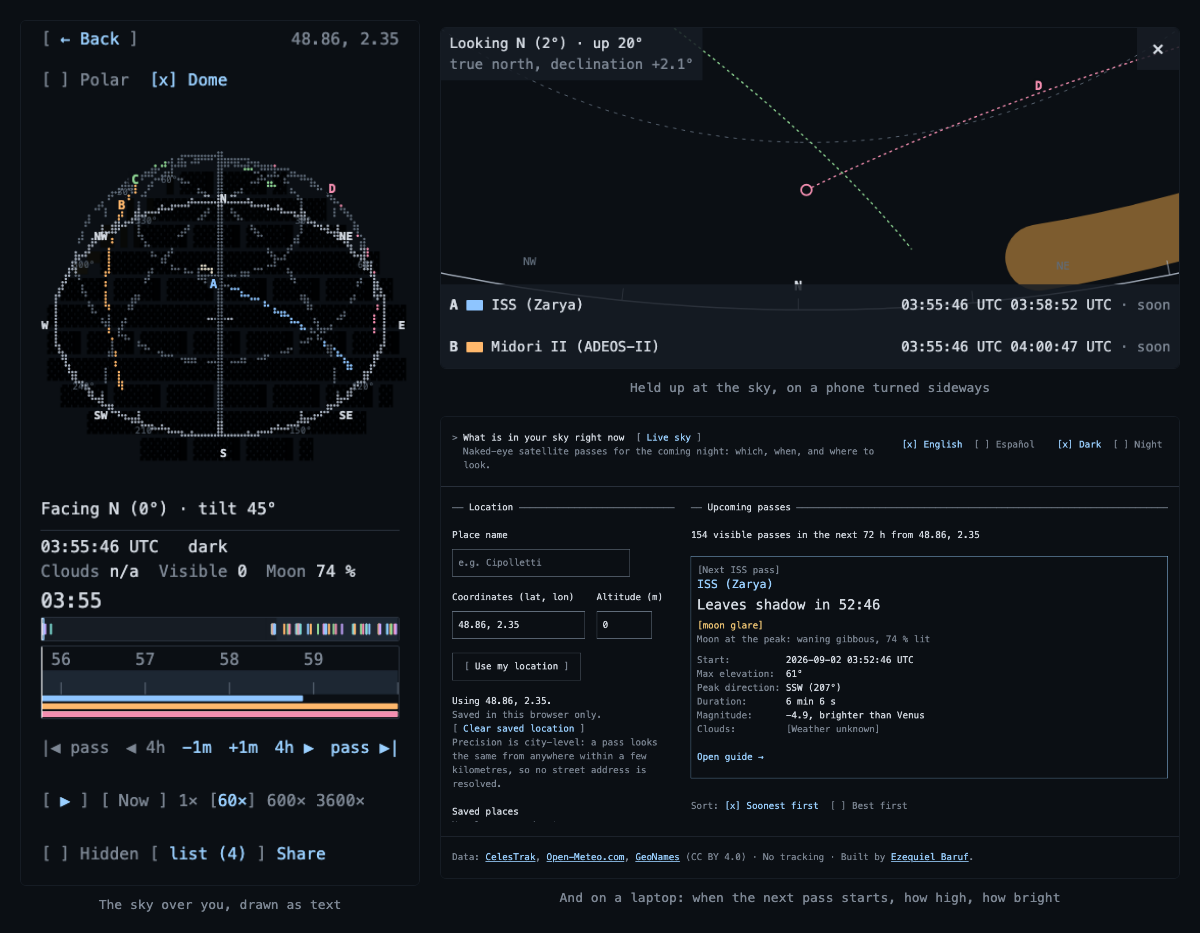
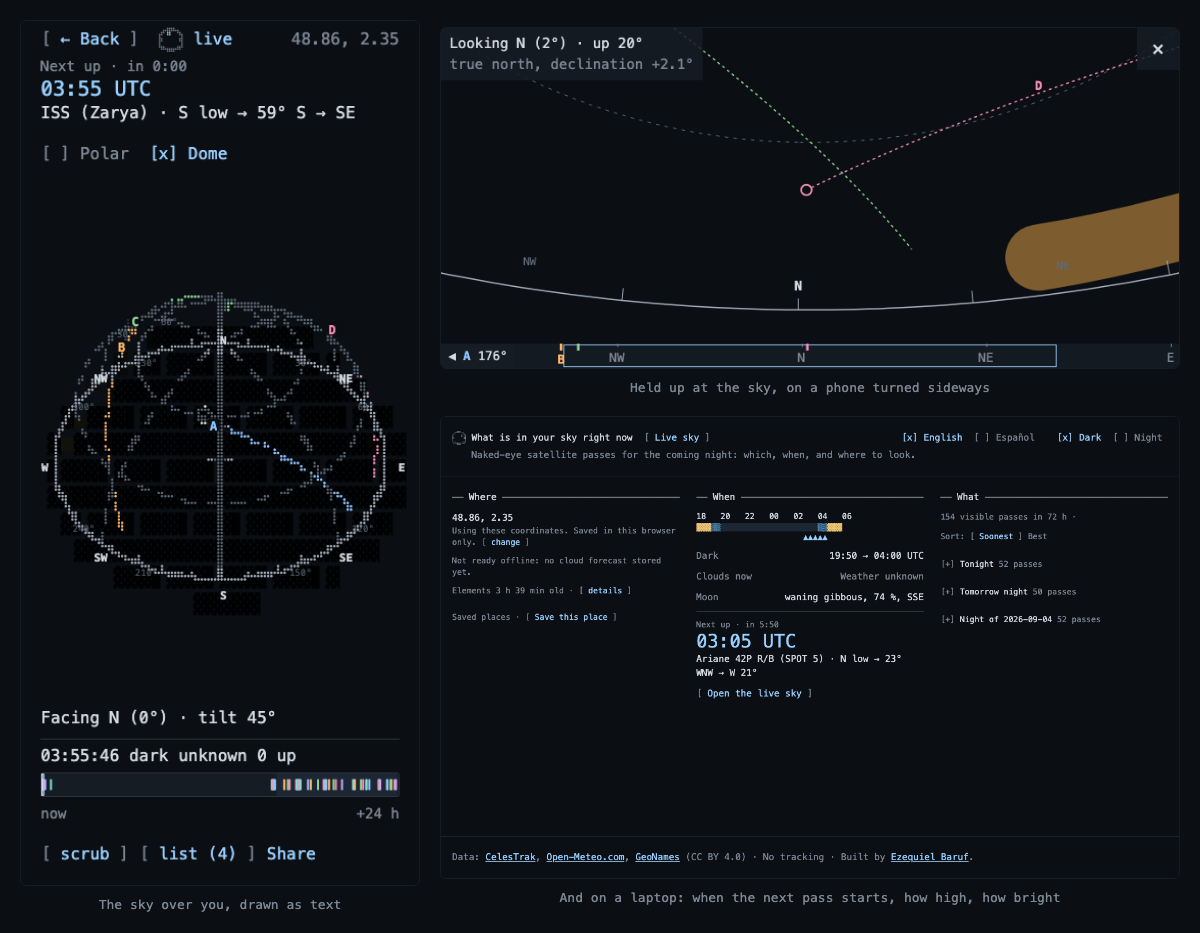
R80: the findings register closes the phase, and two rows open
F-67 and F-68 closed by #116 and #117; F-66 open with a second measurement -- three shots of polar at 390 off the 2.0.0 build are byte-identical, which is not a fix; F-62's 390 x 667 half open and re-measured at 329 px against the 374 floor. F-69 is main at 158.0 against its 155 budget with the mark's 5.2 KB measured by ablation; F-70 is a second nondeterministic capture, sky-screen-chip at 844, about fifty pixels inside a box of x 481-562, y 221-289. FR-SET-4's note: the docs/mockups settings board is marked superseded in the board and the README and is not re-drawn. The README hero follows the renamed live capture.

diff --git a/docs/mockups/compact-390.html b/docs/mockups/compact-390.html
@@ -266,6 +266,11 @@
   <b>Settings — <code>#settings</code>.</b> FR-COMP-2's order: language, theme,
   location, saved places, clear. Every change applies at once; there is no save
   action.
+  <br><br>
+  <b>Superseded by v2.0 (FR-SET-4).</b> The page is inverted — Location, Saved
+  places, This browser — and its reference is the design phase's artboard, not
+  this board, which is kept as what R52 was reviewed against and is not
+  re-drawn.
 </div>
 <div class="frame" id="settings">
   <div class="fold"></div>

diff --git a/scripts/readme-hero.ts b/scripts/readme-hero.ts
@@ -70,7 +70,10 @@ export interface Source {
  */
 export const SOURCES = [
   {
-    file: 'v1-live-390-dark-en.png',
+    // R80: the set's `live` screen is `live-watching` since v2.0 split the live page into
+    // its two states (FR-WATCH-9 f). Watching is the right half of that split for a first
+    // picture: it is the page as it opens, with no scrub block over the sky.
+    file: 'v1-live-watching-390-dark-en.png',
     caption: 'The sky over you, drawn as text',
     w: 390,
     h: 844,

diff --git a/SPEC.md b/SPEC.md
@@ -497,7 +497,7 @@ The R15 dome reads as a wire cage: rings, meridians and arc in one colour at nea
 
 ### 4.20 The v1 findings *(v1.1)*
 
-Every v1 task PR was merged with its review findings open (V1-11's gate merges on the owner's word, not on a clean review). They are listed here so the phase closes them, with the PR they came from and the lane that owns the code. The wording is the reviewer's, shortened. *(v1.1.1)* F-51..F-53 are the owner's findings on the wide live page after wave 4 (V11-14), measured on the fixtures at 1280 × 800, 1920 × 1080 and 2560 × 1440. *(v1.2)* F-54..F-56 are the owner's findings on the released v1.1 build (V12-3..V12-5); FR-FIX-1 governs them as it governs the rest, and the v1.2 tasks carry them. F-57 and F-58 are R56's review findings, merged open with #87 and written down here for a later phase as V12-6 asks; no v1.2 task carries them. *(v1.2.1)* F-59 is the owner's finding on the released v1.2 build (V12-7), and F-60 and F-61 are what reproducing it found (V12-9, V12-11); R61 carries all three. F-62 is R59's follow-up, merged open with #91 and written down here for a later phase as V12-6 asks; no v1.2 task carries it. *(v1.2 release)* F-54, F-55 and F-56 are closed by R57 (#89), R59 (#91) and R58 (#90) respectively; F-59, F-60 and F-61 are all three closed by R61 (#92); each closure is a change with a test that fails on the old code (FR-FIX-1), recorded in that PR. F-57, F-58 and F-62 stay open, as this section already says: no v1.2 task carries them. *(v1.3.1)* F-63 is the owner's finding on the R64 build, reproduced and measured before it was written down (V13-10); R66 carries it, and FR-FIX-1 governs it as it governs the rest. F-64 is what running the suite for R66 found — an `moon.spec.ts` failure that reproduces on `origin/main` — and no v1.3.1 task carries it. *(v1.4)* F-65 is the owner's finding on the 1.3.0 build, reproduced and measured before it was written down (V14-2); and F-57, F-58, F-62 and F-64 — the four rows no phase carried — are v1.4's, the owner's call when asked (V14-7). FR-FIX-1 governs all five. *(R67)* F-64 is closed: the catalogue and the fixture were already right — with `VITE_MOON_LORE=on` set, `moon.spec.ts` passed unchanged, including its "Taurus" assertion — the cause was the local `e2e` npm script building with the flag off while CI already built the e2e stage with it on (FR-FLAG-1/2), so only a bare `npm run e2e` (or a preview served from that build) ever showed the failure `origin/main` reproduces. Fixed by matching the `e2e` script's build to CI's, with `tests/build/flags.test.ts` holding the two sides together so the flag cannot fall off one of them again (#108). *(R68)* F-57 and F-58 are closed by R68 (#109), a change with a test that fails on the old code (FR-FIX-1): the window projects the horizon once per render where it draws it, and reads `lookDirection` once. *(R69)* F-65 is closed by R69 (#110): every rule of the landscape block names the compact mode, `tests/styles/liveShape.test.ts` fails on the old sheet and `tests/e2e/shapes.spec.ts` walks the FR-SHP-4 matrix. *(R71)* F-62 is closed at 390 × 844 by R71 (#112) — 375 px of box against the floor of 374, measured with the list closed by `live-compact.spec.ts`, which fails on the old layout — and its last sentence is open at 390 × 667, where 198 px is 176 under the floor and no furniture is left to cut. *(v1.4 release, R72)* The phase's five rows and where they stand: F-64 closed by R67 (#108), F-57 and F-58 by R68 (#109), F-65 by R69 (#110), F-62 closed at 390 × 844 by R71 (#112). None of the five is closed silently, and the one thing left open is not a defect to fix but a requirement to restate: FR-LEG-8's "MUST hold at 390 × 667" against FR-COMP-5's own escape, which is the owner's sentence and is on the release checklist (`docs/RELEASE.md` §11.3) rather than assigned to a task. F-66 is what the release re-shoot of the capture set found; no v1.4 task carries it.
+Every v1 task PR was merged with its review findings open (V1-11's gate merges on the owner's word, not on a clean review). They are listed here so the phase closes them, with the PR they came from and the lane that owns the code. The wording is the reviewer's, shortened. *(v1.1.1)* F-51..F-53 are the owner's findings on the wide live page after wave 4 (V11-14), measured on the fixtures at 1280 × 800, 1920 × 1080 and 2560 × 1440. *(v1.2)* F-54..F-56 are the owner's findings on the released v1.1 build (V12-3..V12-5); FR-FIX-1 governs them as it governs the rest, and the v1.2 tasks carry them. F-57 and F-58 are R56's review findings, merged open with #87 and written down here for a later phase as V12-6 asks; no v1.2 task carries them. *(v1.2.1)* F-59 is the owner's finding on the released v1.2 build (V12-7), and F-60 and F-61 are what reproducing it found (V12-9, V12-11); R61 carries all three. F-62 is R59's follow-up, merged open with #91 and written down here for a later phase as V12-6 asks; no v1.2 task carries it. *(v1.2 release)* F-54, F-55 and F-56 are closed by R57 (#89), R59 (#91) and R58 (#90) respectively; F-59, F-60 and F-61 are all three closed by R61 (#92); each closure is a change with a test that fails on the old code (FR-FIX-1), recorded in that PR. F-57, F-58 and F-62 stay open, as this section already says: no v1.2 task carries them. *(v1.3.1)* F-63 is the owner's finding on the R64 build, reproduced and measured before it was written down (V13-10); R66 carries it, and FR-FIX-1 governs it as it governs the rest. F-64 is what running the suite for R66 found — an `moon.spec.ts` failure that reproduces on `origin/main` — and no v1.3.1 task carries it. *(v1.4)* F-65 is the owner's finding on the 1.3.0 build, reproduced and measured before it was written down (V14-2); and F-57, F-58, F-62 and F-64 — the four rows no phase carried — are v1.4's, the owner's call when asked (V14-7). FR-FIX-1 governs all five. *(R67)* F-64 is closed: the catalogue and the fixture were already right — with `VITE_MOON_LORE=on` set, `moon.spec.ts` passed unchanged, including its "Taurus" assertion — the cause was the local `e2e` npm script building with the flag off while CI already built the e2e stage with it on (FR-FLAG-1/2), so only a bare `npm run e2e` (or a preview served from that build) ever showed the failure `origin/main` reproduces. Fixed by matching the `e2e` script's build to CI's, with `tests/build/flags.test.ts` holding the two sides together so the flag cannot fall off one of them again (#108). *(R68)* F-57 and F-58 are closed by R68 (#109), a change with a test that fails on the old code (FR-FIX-1): the window projects the horizon once per render where it draws it, and reads `lookDirection` once. *(R69)* F-65 is closed by R69 (#110): every rule of the landscape block names the compact mode, `tests/styles/liveShape.test.ts` fails on the old sheet and `tests/e2e/shapes.spec.ts` walks the FR-SHP-4 matrix. *(R71)* F-62 is closed at 390 × 844 by R71 (#112) — 375 px of box against the floor of 374, measured with the list closed by `live-compact.spec.ts`, which fails on the old layout — and its last sentence is open at 390 × 667, where 198 px is 176 under the floor and no furniture is left to cut. *(v1.4 release, R72)* The phase's five rows and where they stand: F-64 closed by R67 (#108), F-57 and F-58 by R68 (#109), F-65 by R69 (#110), F-62 closed at 390 × 844 by R71 (#112). None of the five is closed silently, and the one thing left open is not a defect to fix but a requirement to restate: FR-LEG-8's "MUST hold at 390 × 667" against FR-COMP-5's own escape, which is the owner's sentence and is on the release checklist (`docs/RELEASE.md` §11.3) rather than assigned to a task. F-66 is what the release re-shoot of the capture set found; no v1.4 task carries it. *(v2.0)* F-67 and F-68 are what the phase's own CI found before and during its first task — a wall-clock test and then four files of them — and each was closed by the PR that reproduced it, #116 and #117. No other v2.0 task carries a row: the six areas are new sections, not fixes. *(v2.0 release, R80)* Where every row this phase carried stands, none of them closed silently. **F-67** closed by #116 and **F-68** by #117, each a test pinned to the fixture's instant. **F-66 stays open and did not reproduce**: the 2.0.0 re-shoot shot `polar at 390 px` three times off the one build and all four variants came out byte-identical, where the 1.4.0 build alternated in the `night`/`es` one — the row keeps its v1.4 measurement and gains this one, because a flake that three runs did not show is not a flake that is fixed, and the cause is `chart`-lane code no v2.0 task touched. **F-62's open half** — the compact box at 390 × 667 — is not closed either, and it moved: R71 measured 198 px against FR-COMP-5's floor of 374, and R77's watching state (FR-WATCH-4 renders no stripe, no step row and no playback row at all) measures 329, so the gap is 45 px rather than 176. Still the owner's sentence rather than a task's, now on `docs/RELEASE.md` §12. Two rows are added by this task and belong to a later phase: **F-69**, the main chunk over its budget with the mark in it, and **F-70**, a second capture of the set that does not answer twice the same way.
 
 - **FR-FIX-1** Each finding below MUST be closed by a change with a test that fails on the old code, or recorded as *already fixed on main* with the commit that fixed it, or moved to Phase 3 by an explicit Decision Log row. A findings task per lane (V11-11) carries them; a finding whose code a v1.1 feature task rewrites MAY be closed by that task instead, named in its acceptance.
 - **FR-FIX-2** Findings that are e2e or CI defects (F-33, F-34, F-36, F-37, F-38) are closed in the first wave together with §4.21, before any feature task runs.
@@ -569,9 +569,11 @@ Every v1 task PR was merged with its review findings open (V1-11's gate merges o
 | F-64 | R66 | ui | `moon.spec.ts`'s Now-panel test fails on `origin/main` as well as on this branch: the "Moon tonight" region does not contain the lore line it asserts. Found while running the suite for R66, reproduced on a worktree of `origin/main` at dd126f2, and not caused by anything in v1.3.1 — the lore line is chosen from the Moon's constellation, so a date-dependent fixture is the first place to look. No v1.3.1 task carries it. |
 | F-63 | owner, R64 phone run | live | On a landscape phone the live drawing lies over the status strip and the stripe beside it. The compact box is full-bleed by negative side margins of one page padding each (R45, D-187), which assumes the pane it is in is the page's whole width; in the landscape-phone layout (D-173) the dome pane is only the left 2fr column, so the box comes out a whole page padding wider than its pane on each side. Measured on the R64 build at 844 × 390: the dome pane runs x 19 → 340 and the side column starts at 344, while `chart-box` runs 0 → 359 — 19 px off the left edge of the page and 15 px into the strip. The same at 740 × 360 (pane to 298, side from 302, box to 318) and at 932 × 430 (375, 379, 394). Since R45; never seen because the landscape layout's own tests measure the panes, which do not overlap, and not the drawing inside them. |
 | F-65 | owner, 1.3.0 build (Chrome device mode, responsive frame) | live | On a wide viewport shorter than 500 px the live page takes the landscape phone's grid **tracks** and keeps the desktop's grid **areas**, so the whole page is drawn inside the left `2fr` column and the drawing collapses. `Live.module.css`'s `(orientation: landscape) and (max-height: 500px)` block sets `grid-template-columns: minmax(0, 2fr) minmax(0, 3fr)` with no mode selector, while `.page[data-compact='false'][data-columns='one']` sets the areas one-column and wins on specificity; the block's own comment states the assumption that fails — "the landscape phone (D-173) is compact and keeps its own two columns". Reproduced and measured on the 1.3.0 build before it was written down (V14-2). At 1200 × 450: the page is 1200 × 450 and every row of it 456 px wide at x 19; `live-top-row`, a one-line row, is 144 px tall; `chart-box` is 243 × **0**; `document.documentElement.scrollHeight` is 624 against an inner height of 450, so the page scrolls, against FR-LIVE-1; and the facing readout is set one character per line. The same at 1400 × 480 (`chart-box` 279 × 0, `scrollHeight` 576). Correct at 1200 × 700 (the desktop layout) and at 900 × 450 (a real compact landscape). Since R34 (PLAN D-173), and invisible to the suite because every test of the landscape layout runs at a compact width, where the rule is right. *Closed by R69 (#110; D-379):* every rule in the landscape block is `.page[data-compact='true']`'s, `tests/styles/liveShape.test.ts` fails on the old sheet, and `tests/e2e/shapes.spec.ts` walks FR-SHP-4. Measured on the branch at 1200 × 450: the page's rows are 1161 px wide, `chart-box` 262 × 219 with the rows folded (FR-SHP-3: the actions on the strip's line, every control's row one text row), the drawing 92 % of the box across, `scrollHeight` 450 against 450. FR-SHP-3's "486 × 405" at that size is not reachable with the time row and the stripe under the box — 450 less the padding, the top row and the frame's row leaves 405 for the box *and* the stripe together — and is a figure for the owner to restate. |
-| F-66 | R72, the v1.4 release re-shoot | chart | One capture of the set is not deterministic: `v1-polar-390-night-es.png` comes out in either of two states, 142 pixels apart, inside the polar drawing (bounding box x 137–318, y 269–385 of 390 × 844). Measured on the 1.4.0 build by shooting `polar at 390 px` three times off one build and hashing the four files: the other three variants of that screen are byte-identical across all three runs, and the `dark`/`es` one alternates. So it is not the seeded instant F-48 fixed — that would move every variant — but something inside the drawing that only the Spanish dark picture is on the edge of, and 142 px is a glyph or two. What it costs is small and real: a release re-shoot of an unchanged screen shows one file changed, so the reviewer of the set has to tell that apart from a screen that moved, which is the whole point of the set being re-shot off one build (D-179). No v1.4 task carries it; a `chart`-lane finding for a later phase, like F-57 and F-62 before it. |
+| F-66 | R72, the v1.4 release re-shoot | chart | One capture of the set is not deterministic: `v1-polar-390-night-es.png` comes out in either of two states, 142 pixels apart, inside the polar drawing (bounding box x 137–318, y 269–385 of 390 × 844). Measured on the 1.4.0 build by shooting `polar at 390 px` three times off one build and hashing the four files: the other three variants of that screen are byte-identical across all three runs, and the `dark`/`es` one alternates. So it is not the seeded instant F-48 fixed — that would move every variant — but something inside the drawing that only the Spanish dark picture is on the edge of, and 142 px is a glyph or two. What it costs is small and real: a release re-shoot of an unchanged screen shows one file changed, so the reviewer of the set has to tell that apart from a screen that moved, which is the whole point of the set being re-shot off one build (D-179). No v1.4 task carries it; a `chart`-lane finding for a later phase, like F-57 and F-62 before it. *(R80, the v2.0 re-shoot)* **It did not reproduce, and it is not closed.** The same measurement on the 2.0.0 build — `polar at 390 px` shot three times off the one build, the four files hashed after each run — comes out byte-identical in all four variants, the `dark`/`es` one included. All four `v1-polar-390-*.png` files do differ from the committed 1.4.1 ones, but so does every other screen with a header on it: v2.0 put the mark there (FR-MARK-4). So the row stays open with both measurements beside it. Three runs that agree are not a fix, nobody changed the code they would have to have changed, and F-70 is the same shape of defect turning up one screen over. |
 | F-67 | v2.0 breakdown, CI on PR #116 | ui | `PassList.test.tsx`'s "names the nights from the reader's own clock" reads the wall clock and is red for a whole calendar day at a time, on any branch: `nightLabel` has three branches (tonight, tomorrow night, the date) and the assertion had two, so on the day before the golden window's date — when the first night is "tomorrow" — it expects `Night of 2026-09-11` and the component correctly says `Tomorrow night`. Reproduced at 00:06 UTC on a branch with no `src/` change; the same test passed at 23:30 UTC. The component is right and the test was wrong. Closed by PR #116: the test pins `Date.now()` to the fixture's instant and asserts the three labels as literals (§9.3's determinism rule, applied to a test that had escaped it). |
 | F-68 | R74 revisit, CI on PR #117 (2026-09-14) | ui | The hero card's choice reads the wall clock — `PassList.tsx` hands `nextFeaturedPass` a ticking `Date.now()`, not the store's `nowMs` — and the golden passes are dated, so from the calendar day their window ended every assertion on `iss-hero` went red on any branch: three tests in `App.test.tsx`, `App.wide.test.tsx` and `App.settings.test.tsx` that render the frame with the golden pass, and the two in `PassList.test.tsx` that promote it. Reproduced on untouched `main` the same day. The component is right and the tests were F-67's mistake again, one file over. Closed by PR #117: the four files pin `Date.now()` at the fixture's instant (§9.3's determinism rule), as F-67 did. Whether the hero should read the store's clock instead is open: the card counts down in real time by design. |
+| F-69 | R80, the v2.0 release measurement | ui | The main chunk is over its budget on the shipping build: 158.0 KB gzipped against the 155 KB `scripts/bundle-budget.ts` enforces (PLAN §11), so every build of `main` from here prints a `::warning::`. The mark's share is measured and not estimated, which is what FR-MARK-6 asks the release task for: the same tree built with `Mark.tsx` stubbed to an empty box — importing neither `rasters.json` nor `useBead` nor `denseFrame` — measures 152.8 KB, so the component, the six body rasters and the 60 sparse bead frames per tier are **5.2 KB gzipped, 18.0 KB raw**. Without the mark the chunk is inside 155 with 2.2 KB to spare; with it, 3.0 KB over. It is not the whole cause: `main` grew 17.9 KB over the 1.4.0 build (140.1 → 158.0) and the mark is 5.2 of it, the rest being board 1B's home screen, the inverted settings page and the phase's copy in both catalogs, whose source alone grew 8.0 KB gzipped over the same span. PLAN §11's v2.0 paragraph decides what a release task may do about it — "a mark that does not fit inside main's 155 KB is a finding for the owner, not a budget raised by the task that spent it" — so the budget is unchanged and this row is the measurement. The choices are the owner's and each is a Decision Log row: raise main's enforced budget towards the 170 KB ceiling §11 already reserves, split something out of the shell behind a `React.lazy` (the settings page is the obvious candidate — one route, reached by a link), or shrink the mark (five tiers instead of six, or fewer than 60 bead frames). |
+| F-70 | R80, the v2.0 release re-shoot | window | A second capture of the set is not deterministic, and it is not the one F-66 is about. `v1-sky-screen-chip-844-*.png` comes out in either of two states in two of its four variants: shot three times off the 2.0.0 build, `dark`/`en` and `night`/`es` are byte-identical across all three runs while `dark`/`es` and `night`/`en` alternate. The difference is small and inside the drawing, not in the chip or the gutter: 47 differing pixels in `night`/`en` and 52 in `dark`/`es`, both inside a box of x 481–562, y 221–289 of 844 × 390 — a glyph or two, the same shape of defect F-66 records in the polar chart. Not the azimuth sweep the capture's route does to find an empty field: a different facing would redraw the whole picture, not fifty pixels of it. It costs what F-66 costs (D-421): a release re-shoot of an unchanged screen shows a file changed, and the reviewer of the set has to tell that apart from a screen that moved. No v2.0 task carries it; `window`-lane code this task may not touch, so it goes in the register with its measurement and the committed file is the one the single run of record produced. |
 The NaN facing loop from R34 (#57) was fixed on main before the merge and is not listed.
 
 ### 4.21 CI time *(v1.1)*

diff --git a/docs/mockups/README.md b/docs/mockups/README.md
@@ -102,6 +102,17 @@ language, theme, location (the inputs, the device-location button and the
 precision note), saved places, and clear. No save action: every change applies
 at once, as it does today.
 
+> *(v2.0, FR-SET-4; R80)* **This board is superseded and is not re-drawn.**
+> v2.0 inverts the page — Location first, then Saved places, then This browser,
+> which is where language, theme, the install offer and the clear action went —
+> and its reference is the design phase's artboard, with FR-SET-1..4 carrying
+> the artboard's numbers into the text. The board and its two PNGs stay because
+> they are what R52 was reviewed against, the way every other superseded
+> capture in this repository stays; `v1-settings-390-*.png` in
+> `docs/screenshots/` is the picture of the page the app has. The home and the
+> pass-detail boards above are unaffected by that sentence and are superseded
+> by board 1B on their own account (FR-FIRST-7).
+
 **The pass detail (FR-COMP-5, FR-LEG-1..5).** The chart box is full-bleed — it
 spans the 390 px and ignores `main`'s two cells of side padding — and is a
 square. The numeric table has moved directly under it and is now the legend:
